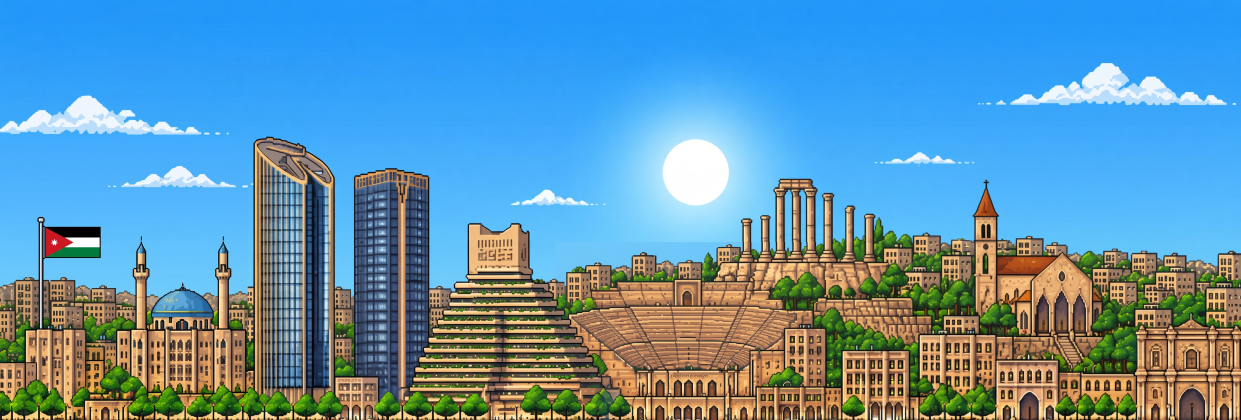
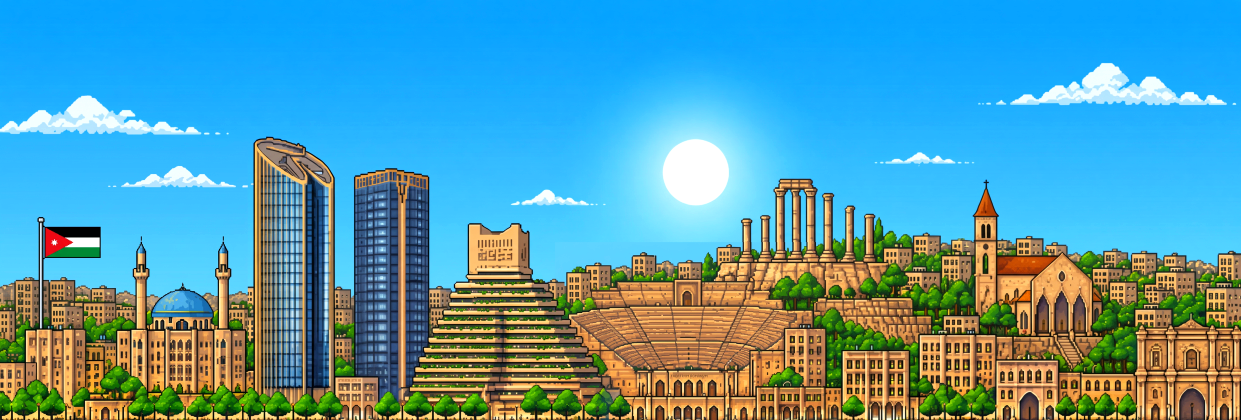
One pixel size for the characters (2), Hercules 1.3x Saqer, theatre crowd from video 3 everywhere, top bar without word labels, brighter day Amman without the veil

diff --git a/js/render.js b/js/render.js
@@ -150,7 +150,7 @@ function paintPhoto(img, cam, levelPx, tile, pit, veilRgb = '40,20,70') {
   // a soft veil pushes the painting back so Saqer and the blocks read clearly in front of it
   const veil = ctx.createLinearGradient(0, GROUND_Y - 120, 0, GROUND_Y);
   veil.addColorStop(0, 'rgba(' + veilRgb + ',0.12)'); veil.addColorStop(1, 'rgba(' + veilRgb + ',0.36)');
-  ctx.fillStyle = veil; ctx.fillRect(0, 0, VW, GROUND_Y);
+  if (!crisp) { ctx.fillStyle = veil; ctx.fillRect(0, 0, VW, GROUND_Y); }   // the day picture shows at full colour (the owner: the brighter the better)
 }
 
 /* the backdrops painted in code (scenery.js): a still sky, then layers that slide at different speeds.
@@ -226,14 +226,20 @@ function paintStage(w) {
   g.fillStyle = dim; g.fillRect(0, P, w, H - P);
   return c;
 }
+/* the theatre crowd (the owner's video 3), at its true proportions: 200 units tall, its front row on the
+   podium wall. In the fight it slides a little slower than the stage; in the story scenes it is centred. */
+function drawCrowd(img, cam, span) {
+  const h = 200, w = h * img.width / img.height;
+  const x = span > 1 ? -Math.min(cam, span) * (w - VW) / span : -(w - VW) / 2;
+  ctx.imageSmoothingEnabled = true;
+  ctx.drawImage(img, x, GROUND_Y - PODIUM - h * 0.93, w, h);
+  ctx.imageSmoothingEnabled = false;
+}
 function paintTheater(cam) {
   const A = theatrePictures(), cheering = G.cheer > 0, alt = Math.floor(G.tick / 9) % 2;
   const img = crowdFrame(cheering);
   ctx.imageSmoothingEnabled = true;                     // the crowd picture at full detail, lifted so its front row sits just above the podium wall
-  // the whole theatre, from the arched gate at the top to the front row on the podium wall, in its own proportions;
-  // narrower than the arena, so it slides a little slower than the stage (depth)
-  const h = 200, w = h * img.width / img.height, span = Math.max(1, level.w * TILE - VW);
-  ctx.drawImage(img, -Math.min(cam, span) * (w - VW) / span, GROUND_Y - PODIUM - h * 0.93, w, h);
+  drawCrowd(img, cam, Math.max(1, level.w * TILE - VW));
   ctx.imageSmoothingEnabled = false;
   ctx.drawImage(A.stage, -cam, GROUND_Y - PODIUM, A.stage.width * AP, A.stage.height * AP);
 }
@@ -654,30 +660,32 @@ function drawPopups(cam) {
 }
 
 function drawHUD() {
-  text('SAQER', 10, 8);
-  if (G.god) text('ATTAR10X', 10, 46, '#7dff8a', 6);
-  text(pad(G.score, 6), 10, 19);
-  text('DINARS', 68, 8, '#ffd166');          // no mahr yet: Dana and her mahr come in level 2
-  ctx.drawImage(ART.coin[Math.floor(G.tick / 10) % 4], 67, 18.5, 8, 8);
-  text(String(G.mahr), 77, 19);
-  text('STAGE', 128, 8);
-  const id = level.def ? (level.def.id || '') : '';
-  text(id, 128, 19, '#fff', id.length > 8 ? 6 : 8);
-  if (G.golden) {                                       // lives only count once he has the golden jameed
-    text('LIVES', 214, 8);
-    text('x' + G.lives, 222, 19);
+  // one row of numbers with small pictures, no words (the owner: the labels looked wrong on phones)
+  const y = 8;
+  text(pad(G.score, 6), 10, y);                                              // the score
+  if (G.god) text('ATTAR10X', 10, 36, '#7dff8a', 6);
+  ctx.drawImage(ART.coin[Math.floor(G.tick / 10) % 4], 70, y - 0.5, 8, 8);    // dinars
+  text(String(G.mahr), 80, y);
+  const id = level.def ? (level.def.id || '') : '';                          // the stage
+  text(id, 128, y, '#ffd166', id.length > 8 ? 6 : 8);
+  if (G.golden) {                                                            // lives (once he has the golden jameed): a little Saqer
+    const im = SPRITES.saqer.small.idle[0].img, ih = 9, iw = ih * im.width / im.height;
+    ctx.imageSmoothingEnabled = true; ctx.drawImage(im, 212, y - 1, iw, ih); ctx.imageSmoothingEnabled = false;
+    text('x' + G.lives, 212 + iw + 2, y);
   }
-  text('TIME', 270, 8);
-  const s = clockSeconds();
-  text(Math.floor(s / 60) + ':' + String(s % 60).padStart(2, '0'), 270, 19);
+  const s = clockSeconds(), cx = 266, cy = y + 4;                            // the time, by a little clock
+  ctx.fillStyle = '#140d1c'; ctx.beginPath(); ctx.arc(cx + 0.5, cy + 0.5, 4.5, 0, 7); ctx.fill();
+  ctx.fillStyle = '#ffffff'; ctx.beginPath(); ctx.arc(cx, cy, 4, 0, 7); ctx.fill();
+  ctx.fillStyle = '#140d1c'; ctx.fillRect(cx - 0.5, cy - 3, 1, 3.5); ctx.fillRect(cx - 0.5, cy - 0.5, 2.5, 1);
+  text(Math.floor(s / 60) + ':' + String(s % 60).padStart(2, '0'), 274, y);
 
   // the hit bar (once he has the golden jameed) and the key
   if (G.golden) {
-    for (let i = 0; i < MAX_HP; i++) ctx.drawImage(ART.heart[i < G.hp ? 0 : 1], 10 + i * 13, 31, 11.25, 9.75);
+    for (let i = 0; i < MAX_HP; i++) ctx.drawImage(ART.heart[i < G.hp ? 0 : 1], 10 + i * 13, 21, 11.25, 9.75);
   }
   { let kx = G.golden ? 52 : 10;                                             // the keys he carries
-    if (G.keys.vault) { ctx.drawImage(ART.key, kx, 28, 16, 16); kx += 18; }
-    if (G.keys.temple) ctx.drawImage(ART.keyTemple, kx, 28, 16, 16); }
+    if (G.keys.vault) { ctx.drawImage(ART.key, kx, 18, 16, 16); kx += 18; }
+    if (G.keys.temple) ctx.drawImage(ART.keyTemple, kx, 18, 16, 16); }
 
   // the health of Hercules
   const b = G.boss;
@@ -785,7 +793,7 @@ function drawCutscene(v) {
   const th = ART.themes[name];
   if (theatre) {
     ctx.imageSmoothingEnabled = true;
-    ctx.drawImage(crowdFrame(false), -64, GROUND_Y - VH - PODIUM + 4, 448, VH + 1);   // as in the fight: the crowd behind the podium wall …
+    drawCrowd(crowdFrame(false), 0, 1);                                               // exactly as in the fight: the crowd behind the podium wall …
     ctx.imageSmoothingEnabled = false;
     const st = theatrePictures().stage; ctx.drawImage(st, -64, GROUND_Y - PODIUM, st.width * AP, st.height * AP);   // … and the stone stage
     ctx.imageSmoothingEnabled = false;

diff --git a/js/assets.js b/js/assets.js
@@ -14,7 +14,7 @@ import { DANA_ART } from './story.js';
 export const IMG = {};
 export let SPRITES = null;
 
-const CROWD_FRAMES = 9;                                   // frames pulled from the owner's crowd videos (assets/bg/crowd)
+const CROWD_FRAMES = 12;                                  // the theatre crowd: 1 s of the owner's video 3 (steady camera), 12 frames a second (assets/bg/crowd)
 const IMAGES = {
   title:        'assets/bg/title_theater.png',
   amman:        'assets/bg/amman_sunset.jpg',     // today's Amman at sunset (after Hercules, and replays from the hall)
@@ -39,8 +39,7 @@ const IMAGES = {
 
 for (let i = 1; i <= CROWD_FRAMES; i++) {
   const n = String(i).padStart(2, '0');
-  IMAGES['crowdClap' + i] = 'assets/bg/crowd/clap_' + n + '.jpg';
-  IMAGES['crowdCheer' + i] = 'assets/bg/crowd/cheer_' + n + '.jpg';
+  IMAGES['crowd' + i] = 'assets/bg/crowd/crowd_' + n + '.jpg';
 }
 
 function loadImage(src) {
@@ -75,7 +74,7 @@ export async function loadAssets(onProgress = () => {}) {
   Object.assign(IMG, ch.img);
   SPRITES = ch.sprites;
   const seq = name => { const a = []; for (let i = 1; i <= CROWD_FRAMES; i++) a.push(IMG[name + i]); return a.concat(a.slice(1, -1).reverse()); };   // there and back: no jump at the loop
-  IMG.crowdClap = seq('crowdClap'); IMG.crowdCheer = seq('crowdCheer');
+  IMG.crowdClap = seq('crowd'); IMG.crowdCheer = IMG.crowdClap;   // one steady video for both: cheering just plays it faster
   SPRITES.saqer = buildSaqer(IMG.saqerSheet);                      // { big: {idle:[…], walk:[…], run:[…] …}, small: {…} }
   SPRITES.hercules = buildHercules(IMG.herculesSheet);
   // painted in code (scenery.js): the pillars, the backdrops of the past, the Temple of Hercules
@@ -121,7 +120,7 @@ export async function loadAssets(onProgress = () => {}) {
     const talk = HT.slice(1).map(c => ({ img: fitFigure(c, { k: kH }), ax }));   // on the characters' pixel grid, like the rest of him
     SPRITES.hercules.talk = talk.concat(talk.slice(1, -1).reverse());
     // the owner's jameed (art/new/Make this jameed piece…nT3.png), 14 units wide; the golden one is the same piece in gold
-    ART.jameed = fitFigure(cutMagentaSheet(IMG.jameedArt)[0][0], { w: 56 });
+    ART.jameed = fitFigure(cutMagentaSheet(IMG.jameedArt)[0][0], { w: 56, grid: 1.5 });   // the jameed keeps its 1.5 pixel (the owner: its size was already good)
     ART.goldJameed = goldJameed();
   }
   await loadCustom();

diff --git a/js/boss.js b/js/boss.js
@@ -23,7 +23,7 @@ const GY = GROUND_TOP * TILE;
 
 export function spawnBoss() {
   G.boss = {
-    x: 20 * TILE, y: GY - 48, w: 26, h: 48,
+    x: 20 * TILE, y: GY - 35, w: 19, h: 35,          // 1.3× Saqer (his body box scaled with his picture)
     facing: -1, hp: D.boss, state: 'intro', t: 0, anim: 0,
     rest: 0, dir: -1, flash: 0, blockT: 0, shots: [], done: false,
   };
@@ -98,7 +98,7 @@ export function updateBoss() {
     default: break;
   }
 
-  b.h = b.state === 'recover' && b.t > 10 ? 36 : 48;     // he is down on one knee while he gets his breath back
+  b.h = b.state === 'recover' && b.t > 10 ? 26 : 35;     // he is down on one knee while he gets his breath back
   b.y = GY - b.h;
   updateShots(b);
   if (b.state !== 'down' && b.state !== 'hurt') touch(b);
@@ -113,9 +113,9 @@ function dust(x, y, n) {
 /* the club comes down: whoever is under it is hit, and a shockwave runs along the floor each way */
 function smash(b, ph) {
   G.shake = 12; sfx.thud();
-  const cx = b.facing > 0 ? b.x + b.w : b.x - 34;
-  if (overlap(player, { x: cx, y: GY - 34, w: 34, h: 34 })) hurtPlayer('HERCULES');
-  const x = b.facing > 0 ? b.x + b.w + 14 : b.x - 14;
+  const cx = b.facing > 0 ? b.x + b.w : b.x - 25;               // his club's reach, scaled with him
+  if (overlap(player, { x: cx, y: GY - 26, w: 25, h: 26 })) hurtPlayer('HERCULES');
+  const x = b.facing > 0 ? b.x + b.w + 10 : b.x - 10;
   dust(x, GY - 2, 8);
   for (const d of [-1, 1]) b.shots.push({ kind: 'wave', x: x - 6, y: GY - 11, w: 12, h: 11, vx: d * (2.1 + ph * 0.2), life: 48 + ph * 14, t: 0 });
 }

diff --git a/js/sheets.js b/js/sheets.js
@@ -119,7 +119,7 @@ const HERC = {
   kneel:  [[910, 640, 910], [1062, 640, 1062]],
   out:    [[853, 772, 846], [1011, 808, 1011], [1177, 818, 1178]],
 };
-export const HERC_SCALE = 1.37;       // sheet px → canvas px (he stands about 54 world units tall, Saqer 30)
+export const HERC_SCALE = 0.99;       // sheet px → canvas px: he stands about 39 world units tall, 1.3× Saqer (30) — the owner's size
 
 export function buildHercules(img) {
   const id = pixels(img);
@@ -166,7 +166,7 @@ const SAQ = {
 export const SAQER_H = { big: 120, small: 80 };
 /* his pixel size, in canvas px: the sheet is a little finer than the rest of the game, so he is
    rebuilt on a slightly coarser grid (1 = as the sheet gives it, 2 = the tiles' pixel) */
-export const SAQER_PX = 1.5;
+export const SAQER_PX = 2;     // the same pixel as the tiles (2026-11-15: was 1.5; the owner wants one pixel size for everything)
 
 /* snap a figure to a grid of px canvas pixels: averaged down, edges made hard, then blown back up with no smoothing */
 function coarser(src, px) {
@@ -302,7 +302,7 @@ export function fitFigure(c, { h = 0, w = 0, k = 0, kx = 0, flip = false, grid =
   const g = o.getContext('2d'); g.imageSmoothingEnabled = true; g.imageSmoothingQuality = 'high';
   if (flip) { g.translate(o.width, 0); g.scale(-1, 1); }
   g.drawImage(c, 0, 0, o.width, o.height);
-  const out = grid ? coarser(o, SAQER_PX) : o;
+  const out = grid ? coarser(o, grid === true ? SAQER_PX : grid) : o;   // grid: true = the characters' pixel, or a number of canvas px
   out.div = 4;
   return out;
 }

diff --git a/sw.js b/sw.js
@@ -2,7 +2,7 @@
    SERVICE WORKER — offline play
    Bump VERSION whenever you ship changed files so players get them.
    ============================================================ */
-const VERSION = 'saqer-v60';
+const VERSION = 'saqer-v61';
 const CORE = [
   './',
   'index.html',
@@ -14,7 +14,7 @@ const CORE = [
   'js/pix.js', 'js/lang.js', 'js/stats.js', 'js/saqer.js', 'js/sheets.js', 'js/quest.js', 'js/boss.js', 'js/scenery.js',
   'assets/bg/title_theater.png', 'assets/bg/amman_sunset.jpg', 'assets/bg/amman_day.png', 'js/board.js', 'assets/bg/philadelphia.jpg',
   'assets/bg/theater_calm.jpg', 'assets/bg/theater_cheer.jpg', 'assets/bg/theater_cheer2.jpg', 'assets/sfx/crowd_roar.mp3', 'assets/sfx/crowd_clap.mp3',
-  ...Array.from({ length: 9 }, (_, i) => ['clap', 'cheer'].map(k => 'assets/bg/crowd/' + k + '_' + String(i + 1).padStart(2, '0') + '.jpg')).flat(),
+  ...Array.from({ length: 12 }, (_, i) => 'assets/bg/crowd/crowd_' + String(i + 1).padStart(2, '0') + '.jpg'),
   'assets/src/saqer_sheet2.png', 'assets/src/thief_sheet.png', 'assets/src/creatures_sheet.png', 'assets/src/saqer_run.png', 'assets/src/saqer_walk.png', 'assets/src/thief_walk.png', 'assets/src/hercules_talk.png', 'assets/src/sky_temple.png', 'assets/bg/city_below.png', 'assets/bg/city_street.png', 'assets/src/hercules_sheet.png', 'assets/src/pillar.png', 'assets/src/jameed.png',
   'icons/icon-192.png', 'icons/icon-512.png', 'icons/icon-maskable-512.png', 'icons/apple-touch-icon.png',
 ];

diff --git a/index.html b/index.html
@@ -25,7 +25,7 @@
 <link rel="preconnect" href="https://fonts.googleapis.com">
 <link rel="preconnect" href="https://fonts.gstatic.com" crossorigin>
 <link rel="stylesheet" href="https://fonts.googleapis.com/css2?family=Press+Start+2P&family=Changa:wght@700;800&display=swap">
-<link rel="stylesheet" href="css/style.css?v=60">
+<link rel="stylesheet" href="css/style.css?v=61">
 </head>
 <body>
 <main id="stage">
@@ -53,7 +53,7 @@
         <button class="px-btn" id="btn-install" data-act="install" data-t hidden>INSTALL</button>
       </nav>
       <p id="hi-score" class="hint">BEST 000000</p>
-      <p class="hint" style="position:absolute;top:calc(var(--u) * 3);right:calc(var(--u) * 4);margin:0;opacity:.6">V60</p>
+      <p class="hint" style="position:absolute;top:calc(var(--u) * 3);right:calc(var(--u) * 4);margin:0;opacity:.6">V61</p>
       <p class="hint keys" data-t>←→ MOVE · Z JUMP · X RUN · P PAUSE · M SOUND</p>
       <a class="credit" href="https://www.instagram.com/attar10x/" target="_blank" rel="noopener"><span data-t>A GAME BY</span> @attar10x</a>
     </section>
@@ -246,6 +246,6 @@
 })();
 </script>
 <script nomodule>window.__saqerOld();</script>
-<script type="module" src="js/main.js?v=60"></script>
+<script type="module" src="js/main.js?v=61"></script>
 </body>
 </html>
